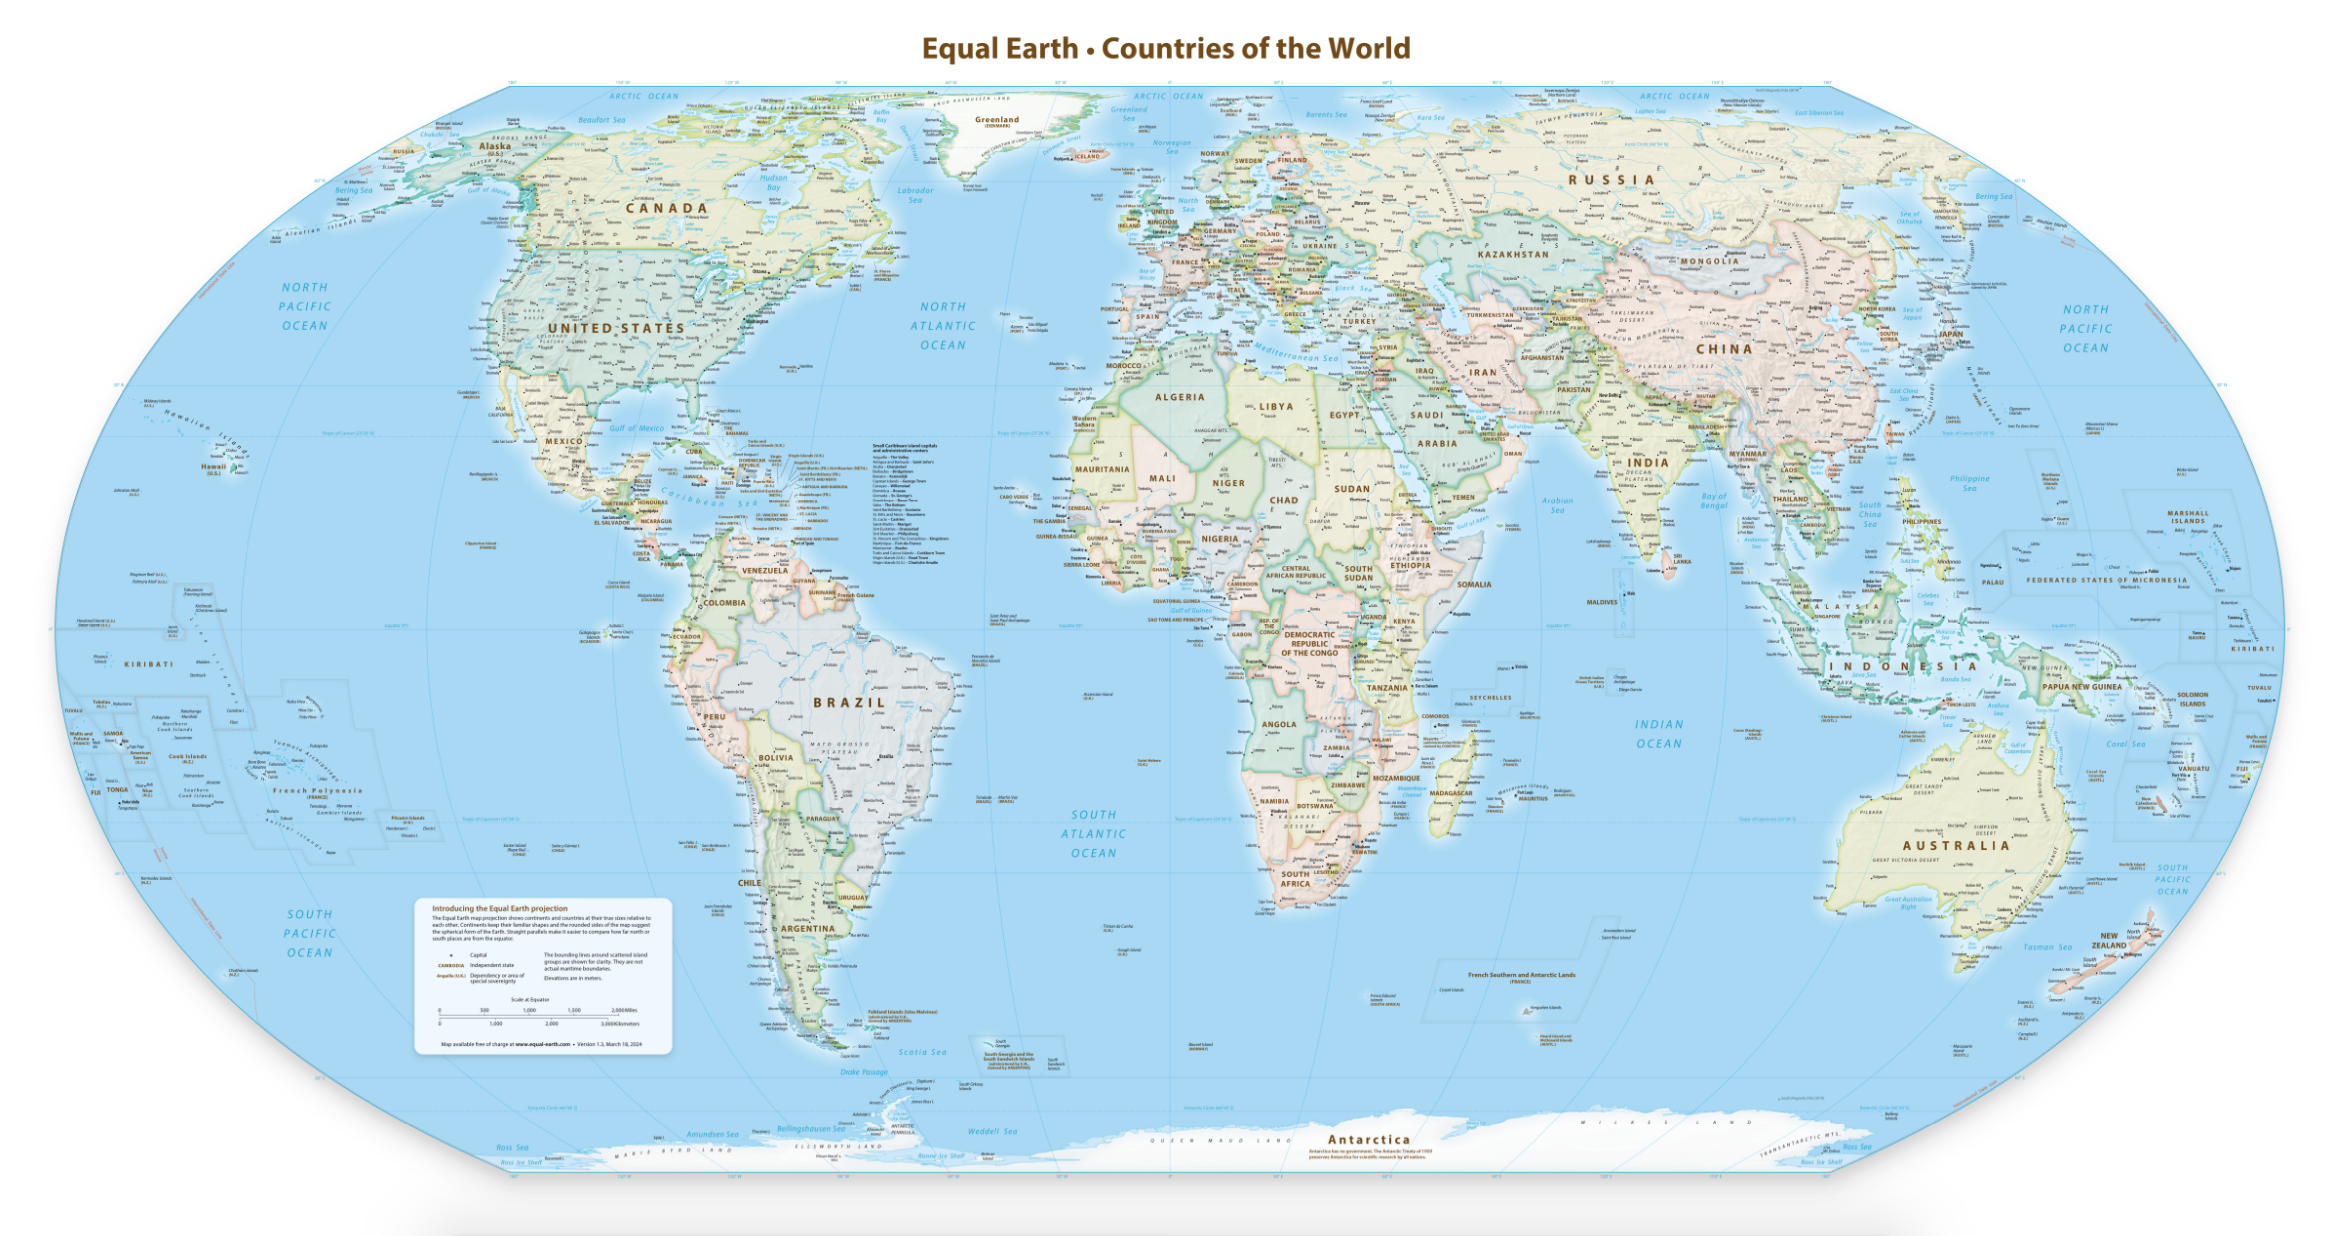
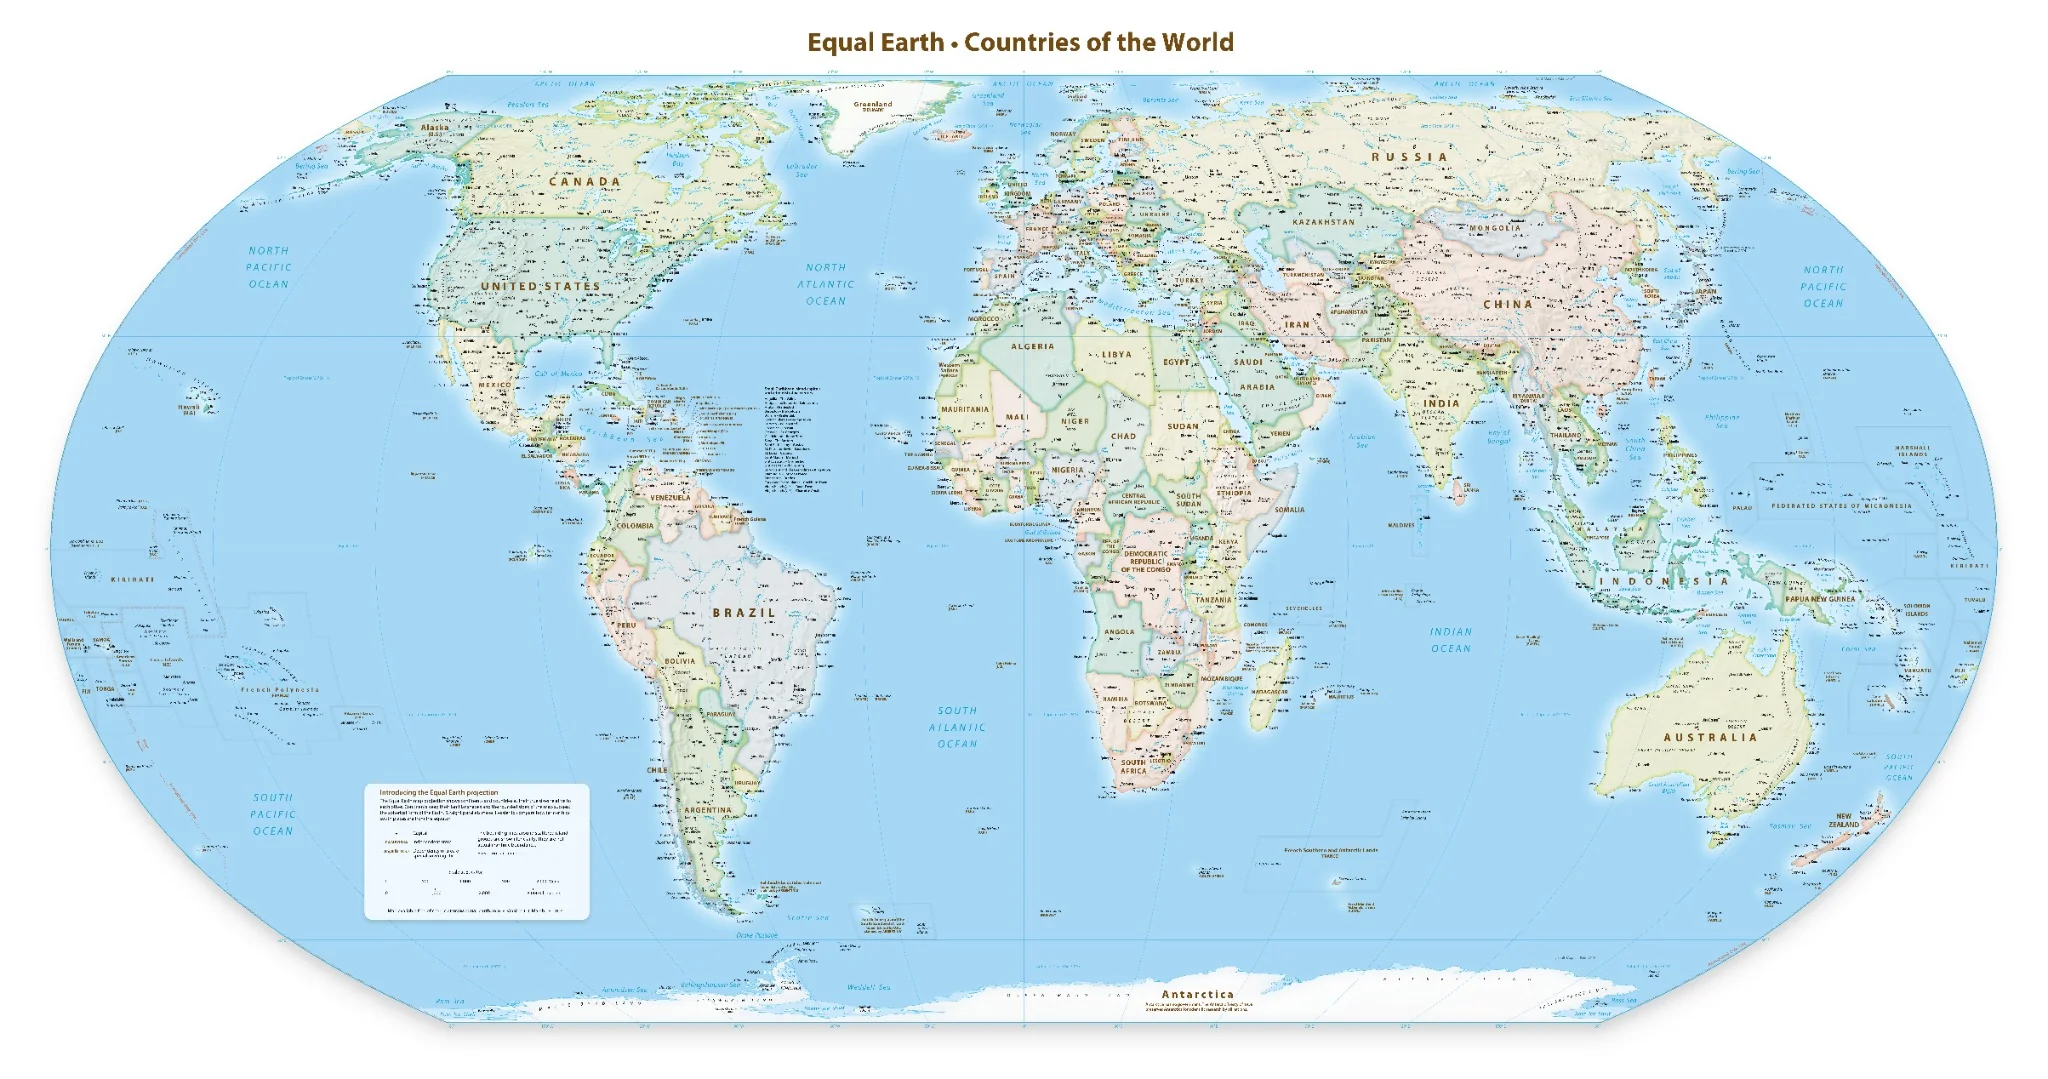
🗺 Replaced background image with optimized WebP version

diff --git a/index.html b/index.html
@@ -7,7 +7,7 @@
   <!-- Styles & Icons -->
   <link rel="stylesheet" href="public/styles/style.css" />
   <link rel="icon" href="/ccalogo.png" type="image/png" />
-  <link rel="preload" as="image" href="/world-map.jpg" />
+  <link rel="preload" as="image" href="/world-map.webp" />
 
   <!-- Responsive Meta -->
   <meta name="viewport" content="width=device-width, initial-scale=1.0" />

diff --git a/public/scripts/map.js b/public/scripts/map.js
@@ -25,7 +25,7 @@ let hoverNode = null;
 
 // ✅ FIXED image path
 const mapImg = new Image();
-mapImg.src = 'public/world-map.jpg';
+mapImg.src = 'public/world-map.webp';
 mapImg.onerror = () => console.warn("🌍 Failed to load world-map.jpg");
 
 // 🌍 Continent nodes
